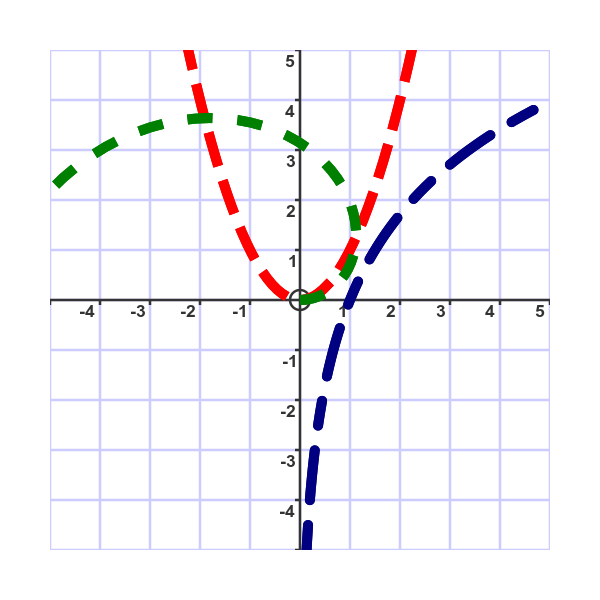
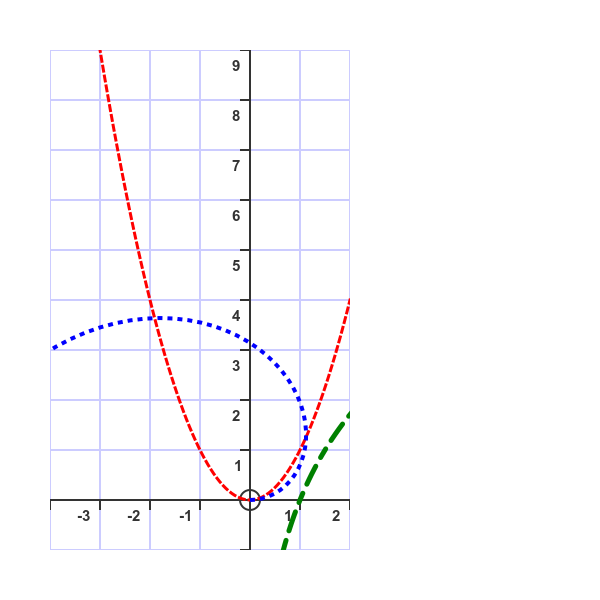
Major update to graph module ahead of V3. Breaking changes see readme.md

diff --git a/generativepy/graph.py b/generativepy/graph.py
@@ -7,82 +7,102 @@ import cairo
 import math
 import numpy as np
 
-from generativepy.geometry import text, Polygon
+from generativepy.geometry import text, Shape
+from generativepy.drawing import MITER, SQUARE
 from generativepy.color import Color
 from generativepy import drawing
 
+class AxesAppearance():
+    '''
+    Parameters that control teh appearance of the axes (colours, line styles).
+    '''
+
+    def __init__(self):
+        pass
 
 class Axes:
-    def __init__(self, ctx, start=(0, 0), extent=(10, 10), divisions=(1, 1), pixel_divider=10):
+    def __init__(self, ctx, position, width, height):
         self.ctx = ctx
-        self.start = start
-        self.extent = extent
-        self.divisions = divisions
-        self.pixel_divider = pixel_divider
+        self.position = position
+        self.width = width
+        self.height = height
+        self.start = (0, 0)
+        self.extent = (10, 10)
+        self.divisions = (1, 1)
 
+    def of_start(self, start):
+        self.start = start
+        return self
+
+    def of_extent(self, extent):
+        self.extent = extent
+        return self
 
     def draw(self):
         self.clip()
-        self.ctx.set_line_width(self.pts2pixels(0.5))
-        self.ctx.set_source_rgba(*Color(0.8, 0.8, 1))
-        for p in self.get_divs(self.start[0], self.extent[0], self.divisions[0]):
-            self.ctx.move_to(p, self.start[1])
-            self.ctx.line_to(p, self.start[1] + self.extent[1])
-        for p in self.get_divs(self.start[1], self.extent[1], self.divisions[1]):
-            self.ctx.move_to(self.start[0], p)
-            self.ctx.line_to(self.start[0]+self.extent[0], p)
-        self.ctx.stroke()
-
-        self.ctx.set_source_rgba(*Color(0.2, 0.2, 0.2))
-        self.ctx.move_to(0, self.start[1])
-        self.ctx.line_to(0, self.start[1] + self.extent[1])
-        self.ctx.move_to(self.start[0], 0)
-        self.ctx.line_to(self.start[0]+self.extent[0], 0)
-        self.ctx.stroke()
-
-        self.ctx.set_source_rgba(*Color(0.2, 0.2, 0.2))
-        self.ctx.set_font_size(self.pts2pixels(3.5))
-        self.ctx.select_font_face('Arial', cairo.FONT_SLANT_NORMAL, cairo.FONT_WEIGHT_BOLD)
-
-        xoffset = self.pts2pixels(1)
-        yoffset = self.pts2pixels(1)
-        for p in self.get_divs(self.start[0], self.extent[0], self.divisions[0]):
-            if abs(p)>0.001:
-                pstr = self.format_div(p, self.divisions[0])
-                text(self.ctx, pstr, p - xoffset, -yoffset, alignx=drawing.RIGHT, aligny=drawing.TOP, flip=True)
-                self.ctx.move_to(p, 0)
-                self.ctx.line_to(p, -yoffset)
-                self.ctx.stroke()
-
-        xoffset = self.pts2pixels(1)
-        yoffset = self.pts2pixels(1)
-        for p in self.get_divs(self.start[1], self.extent[1], self.divisions[1]):
-            if abs(p)>0.001:
-                pstr = self.format_div(p, self.divisions[0])
-                text(self.ctx, pstr, -xoffset, p - yoffset, alignx=drawing.RIGHT, aligny=drawing.TOP, flip=True)
-                self.ctx.move_to(0, p)
-                self.ctx.line_to(-xoffset, p)
-                self.ctx.stroke()
-
-        self.ctx.set_line_width(self.pts2pixels(0.5))
-        self.ctx.new_path()
-        self.ctx.arc(0, 0, self.pts2pixels(2), 0, 2 * math.pi)
-        self.ctx.stroke()
+        self._draw_divlines()
+        self._draw_axes()
+        self._draw_axes_values()
         self.unclip()
 
+    def _draw_divlines(self):
+        self.ctx.set_line_width(2)
+        self.ctx.set_source_rgba(*Color(0.8, 0.8, 1))
+        for p in self._get_divs(self.start[0], self.extent[0], self.divisions[0]):
+            self.ctx.move_to(*self.transform_from_graph((p, self.start[1])))
+            self.ctx.line_to(*self.transform_from_graph((p, self.start[1] + self.extent[1])))
+        for p in self._get_divs(self.start[1], self.extent[1], self.divisions[1]):
+            self.ctx.move_to(*self.transform_from_graph((self.start[0], p)))
+            self.ctx.line_to(*self.transform_from_graph((self.start[0] + self.extent[0], p)))
+        self.ctx.stroke()
+
+    def _draw_axes(self):
+        self.ctx.set_line_width(2)
+        self.ctx.set_source_rgba(*Color(0.2, 0.2, 0.2))
+        self.ctx.move_to(*self.transform_from_graph((0, self.start[1])))
+        self.ctx.line_to(*self.transform_from_graph((0, self.start[1] + self.extent[1])))
+        self.ctx.move_to(*self.transform_from_graph((self.start[0], 0)))
+        self.ctx.line_to(*self.transform_from_graph((self.start[0] + self.extent[0], 0)))
+        self.ctx.stroke()
+        self.ctx.new_path()
+        self.ctx.arc(*self.transform_from_graph((0, 0)), 10, 0, 2 * math.pi)
+        self.ctx.stroke()
+
+    def _draw_axes_values(self):
+        self.ctx.set_line_width(2)
+        self.ctx.set_source_rgba(*Color(0.2, 0.2, 0.2))
+        self.ctx.set_font_size(15)
+        self.ctx.select_font_face('Arial', cairo.FONT_SLANT_NORMAL, cairo.FONT_WEIGHT_BOLD)
+
+        xoffset = 10
+        yoffset = 10
+        for p in self._get_divs(self.start[0], self.extent[0], self.divisions[0]):
+            if abs(p)>0.001:
+                position = self.transform_from_graph((p, 0))
+                pstr = self._format_div(p, self.divisions[0])
+                text(self.ctx, pstr, position[0] - xoffset, position[1] + yoffset, alignx=drawing.RIGHT, aligny=drawing.TOP)
+                self.ctx.move_to(position[0], position[1])
+                self.ctx.line_to(position[0], position[1] + yoffset)
+                self.ctx.stroke()
+
+        for p in self._get_divs(self.start[1], self.extent[1], self.divisions[1]):
+            if abs(p)>0.001:
+                position = self.transform_from_graph((0, p))
+                pstr = self._format_div(p, self.divisions[1])
+                text(self.ctx, pstr, position[0] - xoffset, position[1] + yoffset, alignx=drawing.RIGHT, aligny=drawing.TOP)
+                self.ctx.move_to(position[0], position[1])
+                self.ctx.line_to(position[0] - xoffset, position[1])
+                self.ctx.stroke()
+
     def clip(self):
-        self.ctx.move_to(self.start[0], self.start[1])
-        self.ctx.line_to(self.start[0]+self.extent[0], self.start[1])
-        self.ctx.line_to(self.start[0]+self.extent[0], self.start[1]+self.extent[1])
-        self.ctx.line_to(self.start[0], self.start[1]+self.extent[1])
-        self.ctx.close_path()
+        self.ctx.rectangle(*self.position, self.width, self.height)
         self.ctx.save()
         self.ctx.clip()
 
     def unclip(self):
         self.ctx.restore()
 
-    def get_divs(self, start, extent, div):
+    def _get_divs(self, start, extent, div):
         divs = []
         n = math.ceil(start/div)*div
         while n <= start + extent:
@@ -90,7 +110,7 @@ class Axes:
             n += div
         return divs
 
-    def format_div(self, value, div):
+    def _format_div(self, value, div):
         """
         Formats a division value into a string.
         If the division spacing is an integer, the string will be an integer (no dp).
@@ -103,96 +123,61 @@ class Axes:
             return str(value)
         return str(round(value*1000)/1000)
 
-    def pts2pixels(self, points):
-        return points/self.pixel_divider
+    def transform_from_graph(self, point):
+        '''
+        Scale the ctx so that point (x, y) will be correctly positioned in the axes coordinates
+        :return:
+        '''
+        x = ((point[0] - self.start[0]) * self.width / self.extent[0]) + self.position[0]
+        y = self.height + self.position[1] - ((point[1] - self.start[1]) * self.height / self.extent[1])
+        return x, y
 
 
-def plot_curve(axes, fn, line_color=Color(1, 0, 0), extent=None, line_width=.7, dash=None, cap=drawing.SQUARE,
-               join=drawing.MITER, miter_limit=None):
-    """
-    Plot a curve y = fn(x)
-    :param axes: Axes to plt in
-    :param fn: the function, a function object taking 1 number and returning a number
-    :param lineColor: color of line, Color
-    :param extent: tuple (start, end) giving extent of curve, or None for the curve to fill the x range
-    :param line_width: line width in page space
-    :param dash: line dash style, as per PyCairo stroke
-    :param caps: line caps style, as per PyCairo stroke
-    :param join: line join style, as per PyCairo stroke
-    :param miter_limit: line miter_limit, as per PyCairo stroke
-    :return:
-    """
-    ctx = axes.ctx
-    points = []
-    for x in np.linspace(axes.start[0], axes.start[0]+axes.extent[0], 100):
-        if not extent or extent[0] <= x <= extent[1]:
-            points.append((x, fn(x)))
-    if points:
-        ctx.new_path()
-        if dash:
-            dash = [axes.pts2pixels(x) for x in dash] # TODO handle line width scaling better
-        axes.clip()
-        Polygon(ctx).of_points(points).open().stroke(line_color, axes.pts2pixels(line_width),
-                                                     dash, cap, join, miter_limit)
-        ctx.stroke()
-        axes.unclip()
+class Plot(Shape):
 
-def plot_xy_curve(axes, fn, line_color=Color(1, 0, 0), extent=None, line_width=.7, dash=None, cap=drawing.SQUARE,
-                  join=drawing.MITER, miter_limit=None):
-    """
-    Plot a curve x = fn(y)
-    :param axes: Axes to plt in
-    :param fn: the function, a function object taking 1 number and returning a number
-    :param lineColor: color of line, Color
-    :param extent: tuple (start, end) giving extent of curve, or None for the curve to fill the y range
-    :param line_width: line width in page space
-    :param dash: line dash style, as per PyCairo stroke
-    :param caps: line caps style, as per PyCairo stroke
-    :param join: line join style, as per PyCairo stroke
-    :param miter_limit: line miter_limit, as per PyCairo stroke
-    :return:
-    """
-    ctx = axes.ctx
-    points = []
-    for y in np.linspace(axes.start[1], axes.start[1]+axes.extent[1], 100):
-        if not extent or extent[0] <= y <= extent[1]:
-            points.append((fn(y), y))
-    if points:
-        ctx.new_path()
-        axes.clip()
-        if dash:
-            dash = [axes.pts2pixels(x) for x in dash] # TODO handle line width scaling better
-        Polygon(ctx).of_points(points).open().stroke(line_color, axes.pts2pixels(line_width),
-                                                     dash, cap, join, miter_limit)
-        ctx.stroke()
-        axes.unclip()
+    def __init__(self, axes):
+        super().__init__(axes.ctx)
+        self.axes = axes
+        self.points = []
 
-def plot_polar_curve(axes, fn, line_color=Color(1, 0, 0), extent=(0, 2*math.pi), line_width=.7, dash=None,
-                     cap=drawing.SQUARE, join=drawing.MITER, miter_limit=None):
-    """
-    Plot a curve x = fn(y)
-    :param axes: Axes to plt in
-    :param fn: the function, a function object taking 1 number and returning a number
-    :param lineColor: color of line, Color
-    :param extent: tuple (start, end) giving angular extent of curve, default 0 to 2*pi
-    :param line_width: line width in page space
-    :param dash: line dash style, as per PyCairo stroke
-    :param caps: line caps style, as per PyCairo stroke
-    :param join: line join style, as per PyCairo stroke
-    :param miter_limit: line miter_limit, as per PyCairo stroke
-    :return:
-    """
-    ctx = axes.ctx
-    points = []
-    for theta in np.linspace(extent[0], extent[1], 100):
-        r = fn(theta)
-        points.append((r*math.cos(theta), r*math.sin(theta)))
-    if points:
-        ctx.new_path()
-        axes.clip()
-        if dash:
-            dash = [axes.pts2pixels(x) for x in dash] # TODO handle line width scaling better
-        Polygon(ctx).of_points(points).open().stroke(line_color, axes.pts2pixels(line_width),
-                                                     dash, cap, join, miter_limit)
-        ctx.stroke()
-        axes.unclip()
+    def add(self):
+        self._do_path_()
+        first = True
+        for p in self.points:
+            if first:
+                if not self.extend:
+                    self.ctx.move_to(*p)
+                first = False
+            else:
+                self.ctx.line_to(*p)
+        if self.final_close:
+            self.ctx.close_path()
+        return self
+
+    def stroke(self, color=Color(0), line_width=2, dash=None, cap=SQUARE, join=MITER, miter_limit=None):
+        self.axes.clip()
+        super().stroke(color, line_width, dash, cap, join, miter_limit)
+        self.axes.unclip()
+
+
+    def of_function(self, fn, extent=None, precision=100):
+        self.points = []
+        for x in np.linspace(self.axes.start[0], self.axes.start[0] + self.axes.extent[0], precision):
+            if not extent or extent[0] <= x <= extent[1]:
+                self.points.append(self.axes.transform_from_graph((x, fn(x))))
+        return self
+
+    def of_xy_function(self, fn, extent=None, precision=100):
+        self.points = []
+        for y in np.linspace(self.axes.start[1], self.axes.start[1] + self.axes.extent[1], precision):
+            if not extent or extent[0] <= y <= extent[1]:
+                self.points.append(self.axes.transform_from_graph((fn(y), y)))
+        return self
+
+    def of_polar_function(self, fn, extent=(0, 2*math.pi), precision=100):
+        self.points = []
+        for theta in np.linspace(extent[0], extent[1], precision):
+            r = fn(theta)
+            self.points.append(self.axes.transform_from_graph((r*math.cos(theta), r*math.sin(theta))))
+        return self
+

diff --git a/imagetests/test_graph_module.py b/imagetests/test_graph_module.py
@@ -2,7 +2,7 @@ import unittest
 from generativepy.drawing import setup, make_image, ROUND, BUTT
 from image_test_helper import run_image_test
 from generativepy.color import Color
-from generativepy.graph import Axes, plot_curve, plot_xy_curve, plot_polar_curve
+from generativepy.graph import Axes, Plot
 
 """
 Test the graph module.
@@ -13,17 +13,16 @@ class TestGraphImages(unittest.TestCase):
 
     def test_graph_simple(self):
         def draw(ctx, width, height, frame_no, frame_count):
-            setup(ctx, width, height, width=12, startx=-6, starty=-6, background=Color(1), flip=True)
+            setup(ctx, width, height, background=Color(1))
 
             # Creates a set of axes.
-            # Use the default size of 10 units, but offset the start toplace the origin inthe centre
-            axes = Axes(ctx, start=(-5, -5))
+            axes = Axes(ctx, position=(50, 50), width=500, height=400).of_start((-4, -3)).of_extent((10, 8))
             axes.draw()
 
             # Add various curves
-            plot_curve(axes, lambda x: x * x)
-            plot_xy_curve(axes, lambda x: 1.5 ** x, line_color=Color(0, 0, 0.5))
-            plot_polar_curve(axes, lambda x: 2 * x, line_color=Color(0, 0.5, 0))
+            Plot(axes).of_function(lambda x: x * x).stroke(color=Color('red'))
+            Plot(axes).of_xy_function(lambda x: 1.5 ** x).stroke(color=Color('green'))
+            Plot(axes).of_polar_function(lambda x: 2 * x).stroke(color=Color('blue'))
 
         def creator(file):
             make_image(file, draw, 600, 600)
@@ -32,18 +31,17 @@ class TestGraphImages(unittest.TestCase):
 
     def test_graph_dashed_line(self):
         def draw(ctx, width, height, frame_no, frame_count):
-            setup(ctx, width, height, width=12, startx=-6, starty=-6, background=Color(1), flip=True)
+            setup(ctx, width, height, background=Color(1))
 
             # Creates a set of axes.
-            # Use the default size of 10 units, but offset the start toplace the origin inthe centre
-            axes = Axes(ctx, start=(-5, -5))
+            axes = Axes(ctx, position=(50, 50), width=300, height=500).of_start((-4, -1)).of_extent((6, 10))
             axes.draw()
 
             # Add various curves
-            plot_curve(axes, lambda x: x * x, line_width=2, dash=[5])
-            plot_xy_curve(axes, lambda x: 1.5 ** x, line_color=Color(0, 0, 0.5), line_width=2, dash=[5, 5, 10, 5],
+            Plot(axes).of_function(lambda x: x * x).stroke(color=Color('red'), line_width=3, dash=[5])
+            Plot(axes).of_xy_function(lambda x: 1.5 ** x).stroke(color=Color('green'), line_width=5, dash=[10, 10, 20, 10],
                                 cap=ROUND)
-            plot_polar_curve(axes, lambda x: 2 * x, line_color=Color(0, 0.5, 0), line_width=2, dash=[5], cap=BUTT)
+            Plot(axes).of_polar_function(lambda x: 2 * x).stroke(color=Color('blue'), line_width=4, dash=[5], cap=BUTT)
 
         def creator(file):
             make_image(file, draw, 600, 600)

diff --git a/README.md b/README.md
@@ -2,6 +2,21 @@
 
 Generative art and graphing library for creating images and animations.
 
+## Breaking changes
+
+The graph module in this repo has been updated in anticipation of V3. This will offer significant improvements going forward:
+
+* Fluent interface for axes will allow for more formatting options to be added in the future.
+* Line thickness and text sizes are controlled by current context, rather than relying on magic scaling factors.
+* Graph plots are now Shapes (similar to Polygons) to more consistent with other items.
+* This will allow for other axis styles (eg logarithmic and polar plots) and other plot types (bar, scatter etc) in the future. 
+
+*These are breaking changes, but affecting the graph module only. They should also be regarded as experimental, as they might change in the final release. The documentation on pythoninformer.com has not been updated and still reflects V2.5.*
+
+It is recommended that you continue working with V2.5 for now, until V3 is released. The code can be donwloaded from PyPi.org and the documentation on pythoninformer is correct.
+
+But if you are keen to try out the changes, feel free to dig into the code, and also look at test_graph_module.py in the imagetests folder, that shows how the new interface is used.
+
 ## Usage
 
 generativepy is a library rather an application. It provides useful functions and example code that allow you to
